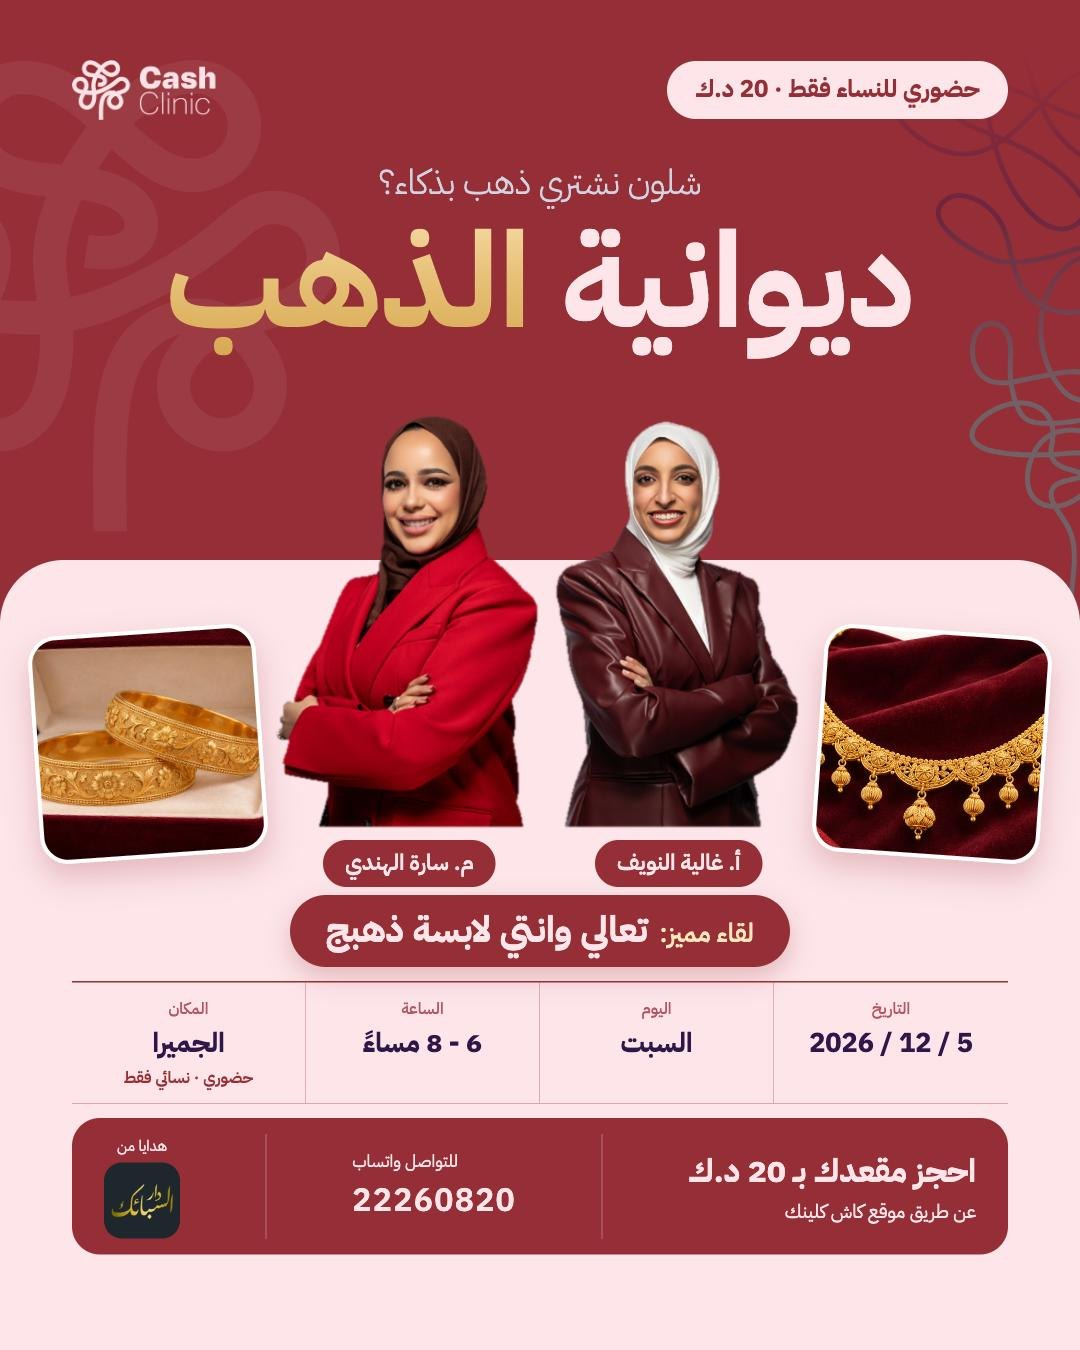
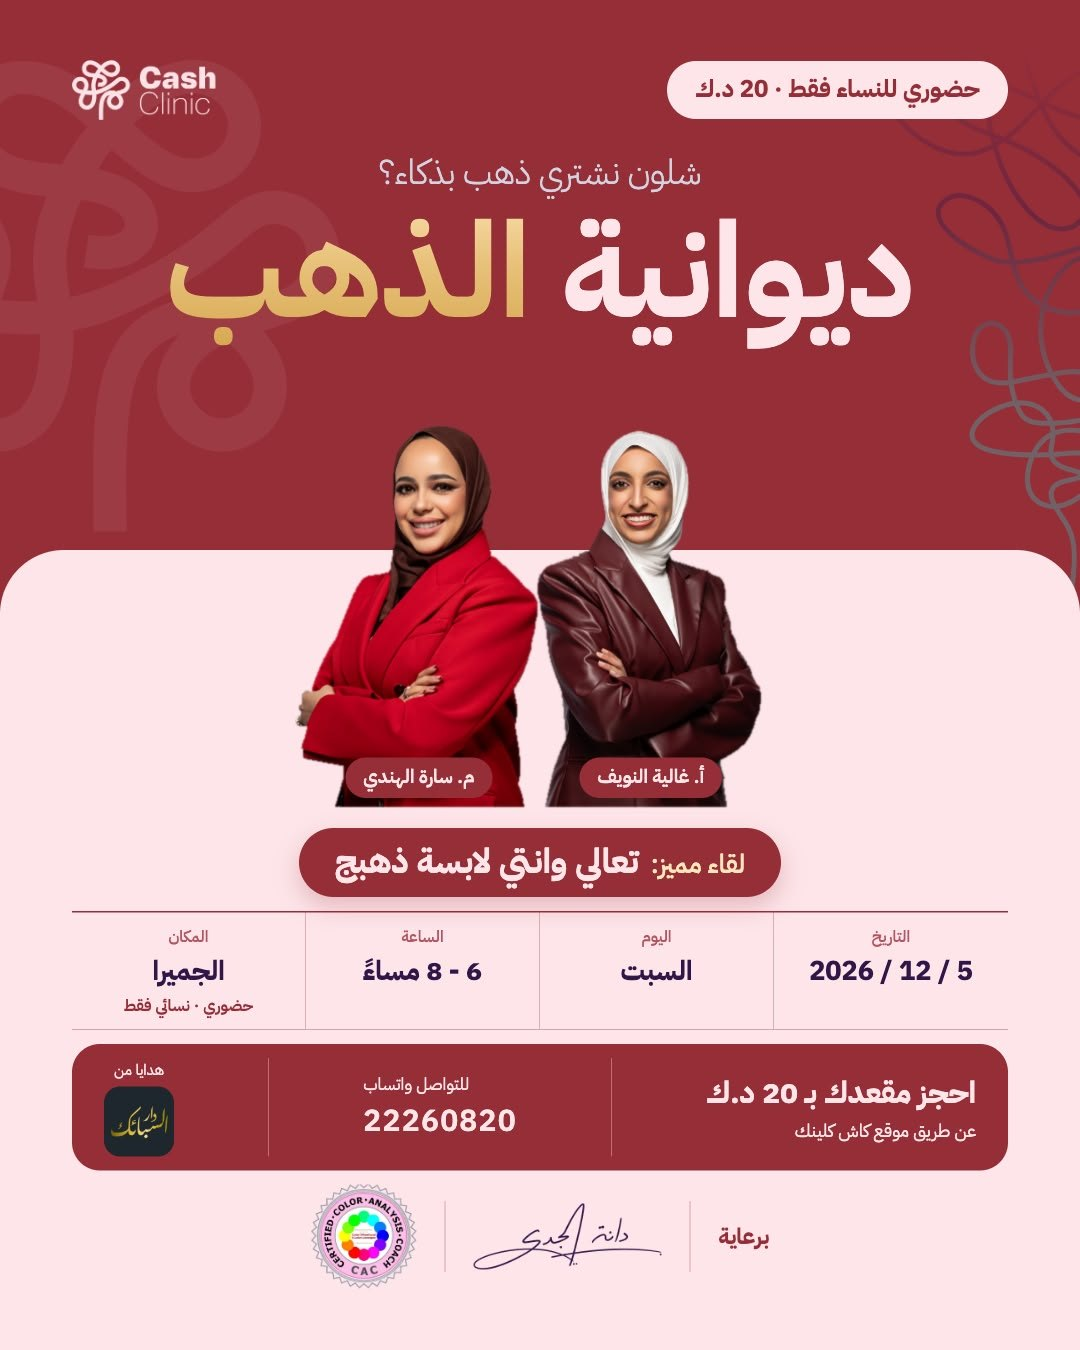
New Diwaniya Al-Thahab poster (?v=2); «💾 احفظ» button on متابعة كاش, خطة رمضان and تأسيس المشروع
Claude-Session: https://claude.ai/code/session_01Uhw4XYqMo3CeZoWD5ZcpCa

diff --git a/clinic/muassis.html b/clinic/muassis.html
@@ -1274,6 +1274,7 @@ secs.forEach((s,i)=>{const n=i===0?'':`<span class="n">${ar(String(i).padStart(2
 
 function persist(){if(window.ccSync)window.ccSync(JSON.stringify(S));
   const s=document.getElementById('saved');s.classList.add('on');clearTimeout(persist.t);persist.t=setTimeout(()=>s.classList.remove('on'),1200);refresh()}
+window.ccPersist=persist;   // the «احفظ» button saves through this
 function refresh(){
   const f=fields().filter(e=>e.type!=='number'&&e.dataset.k!=='cdate'&&!e.dataset.k.startsWith('cal_s')&&e.dataset.k!=='cal_year');const d=f.filter(e=>e.value.trim()).length;
   document.getElementById('progTxt').textContent=ar(d)+' من '+ar(f.length);
@@ -1403,6 +1404,32 @@ async function flush(){
   finally{ saving=false; if(pending && !timer) flush(); }
 }
 window.ccSync=(json)=>{ if(window.ccReadOnly) return; pending=json; clearTimeout(timer); timer=setTimeout(flush,1200); pill("فيه تعديل ما انحفظ…"); };
+
+/* «احفظ» (15 Nov 2026): every change already saves itself a moment later;
+   this saves right now and says so, so a client sees her work landed before
+   she closes the page. Shown only on her own open file, never read-only. */
+(()=>{
+  const b=document.createElement("button");
+  b.type="button"; b.id="ccSaveBtn"; b.hidden=true; b.textContent="💾 احفظ";
+  b.style.cssText="position:fixed;left:max(16px,env(safe-area-inset-left,0px));bottom:calc(72px + env(safe-area-inset-bottom,0px));z-index:70;border:0;border-radius:999px;padding:12px 20px;font:700 15px/1.2 'IBM Plex Sans Arabic',system-ui,sans-serif;background:#2F1748;color:#fff;box-shadow:0 6px 18px rgba(47,23,72,.28);cursor:pointer";
+  document.body.appendChild(b);
+  const gate=q("#ccGate");
+  const sync=()=>{ b.hidden=!gate.hidden || !!window.ccReadOnly; };
+  new MutationObserver(sync).observe(gate,{attributes:true,attributeFilter:["hidden"]}); sync();
+  const label=(t,keep)=>{ b.textContent=t; if(!keep) setTimeout(()=>{ b.textContent="💾 احفظ"; },2200); };
+  b.addEventListener("click", async ()=>{
+    if(window.ccReadOnly) return;
+    try{ window.ccPersist && window.ccPersist(); }catch(e){}
+    clearTimeout(timer); timer=null;
+    b.disabled=true; label("جاري الحفظ…",true);
+    while(saving) await new Promise((r)=>setTimeout(r,150));
+    if(pending) await flush();
+    b.disabled=false;
+    if(pending) label("ما انحفظ — اضغط مرة ثانية",true);
+    else label("انحفظ ✓ "+new Date().toLocaleTimeString("ar-KW-u-nu-latn",{hour:"numeric",minute:"2-digit"}));
+  });
+})();
+
 document.addEventListener("visibilitychange",()=>{ if(document.visibilityState==="hidden") flush(); });
 window.addEventListener("beforeunload",e=>{ if(pending||saving){ flush(); e.preventDefault(); e.returnValue=""; } });
 

diff --git a/clinic/app.html b/clinic/app.html
@@ -927,6 +927,7 @@ function persist(){
   snap();fillBaseline();
   if(window.ccSync) window.ccSync(JSON.stringify(S), true);
 }
+window.ccPersist=persist;   // the «احفظ» button saves through this
 const hasContent=s=>s.incomes.length||s.budget.length||s.goals.length||s.assets.length||s.profile.setup;
 /* started by the عيادتي module once it knows whose file this is */
 window.ccApp={ open(json, info){
@@ -2200,6 +2201,32 @@ async function flush(){
   finally{ saving=false; if(pending && !timer) flush(); }
 }
 window.ccSync=(json,quiet)=>{ if(window.ccReadOnly) return; pending=json; clearTimeout(timer); timer=setTimeout(()=>{ timer=null; flush(); }, quiet?1000:0); };
+
+/* «احفظ» (15 Nov 2026): every change already saves itself a moment later;
+   this saves right now and says so, so a client sees her work landed before
+   she closes the page. Shown only on her own open file, never read-only. */
+(()=>{
+  const b=document.createElement("button");
+  b.type="button"; b.id="ccSaveBtn"; b.hidden=true; b.textContent="💾 احفظ";
+  b.style.cssText="position:fixed;left:max(16px,env(safe-area-inset-left,0px));bottom:calc(18px + env(safe-area-inset-bottom,0px));z-index:70;border:0;border-radius:999px;padding:12px 20px;font:700 15px/1.2 'IBM Plex Sans Arabic',system-ui,sans-serif;background:#2F1748;color:#fff;box-shadow:0 6px 18px rgba(47,23,72,.28);cursor:pointer";
+  document.body.appendChild(b);
+  const gate=q("#ccGate");
+  const sync=()=>{ b.hidden=!gate.hidden || !!window.ccReadOnly; };
+  new MutationObserver(sync).observe(gate,{attributes:true,attributeFilter:["hidden"]}); sync();
+  const label=(t,keep)=>{ b.textContent=t; if(!keep) setTimeout(()=>{ b.textContent="💾 احفظ"; },2200); };
+  b.addEventListener("click", async ()=>{
+    if(window.ccReadOnly) return;
+    try{ window.ccPersist && window.ccPersist(); }catch(e){}
+    clearTimeout(timer); timer=null;
+    b.disabled=true; label("جاري الحفظ…",true);
+    while(saving) await new Promise((r)=>setTimeout(r,150));
+    if(pending) await flush();
+    b.disabled=false;
+    if(pending) label("ما انحفظ — اضغط مرة ثانية",true);
+    else label("انحفظ ✓ "+new Date().toLocaleTimeString("ar-KW-u-nu-latn",{hour:"numeric",minute:"2-digit"}));
+  });
+})();
+
 document.addEventListener("visibilitychange",()=>{ if(document.visibilityState==="hidden") flush(); });
 window.addEventListener("beforeunload",e=>{ if(pending||saving){ flush(); e.preventDefault(); e.returnValue=""; } });
 

diff --git a/clinic/ramadan.html b/clinic/ramadan.html
@@ -835,6 +835,32 @@ async function flush(){
   finally{ saving=false; if(pending && !timer) flush(); }
 }
 window.ccSync=(json)=>{ if(window.ccReadOnly) return; pending=json; clearTimeout(timer); timer=setTimeout(flush,1000); status("فيه تعديل ما انحفظ…"); };
+
+/* «احفظ» (15 Nov 2026): every change already saves itself a moment later;
+   this saves right now and says so, so a client sees her work landed before
+   she closes the page. Shown only on her own open file, never read-only. */
+(()=>{
+  const b=document.createElement("button");
+  b.type="button"; b.id="ccSaveBtn"; b.hidden=true; b.textContent="💾 احفظ";
+  b.style.cssText="position:fixed;left:max(16px,env(safe-area-inset-left,0px));bottom:calc(18px + env(safe-area-inset-bottom,0px));z-index:70;border:0;border-radius:999px;padding:12px 20px;font:700 15px/1.2 'IBM Plex Sans Arabic',system-ui,sans-serif;background:#2F1748;color:#fff;box-shadow:0 6px 18px rgba(47,23,72,.28);cursor:pointer";
+  document.body.appendChild(b);
+  const gate=q("#ccGate");
+  const sync=()=>{ b.hidden=!gate.hidden || !!window.ccReadOnly; };
+  new MutationObserver(sync).observe(gate,{attributes:true,attributeFilter:["hidden"]}); sync();
+  const label=(t,keep)=>{ b.textContent=t; if(!keep) setTimeout(()=>{ b.textContent="💾 احفظ"; },2200); };
+  b.addEventListener("click", async ()=>{
+    if(window.ccReadOnly) return;
+    try{ window.save && window.save(); }catch(e){}
+    clearTimeout(timer); timer=null;
+    b.disabled=true; label("جاري الحفظ…",true);
+    while(saving) await new Promise((r)=>setTimeout(r,150));
+    if(pending) await flush();
+    b.disabled=false;
+    if(pending) label("ما انحفظ — اضغط مرة ثانية",true);
+    else label("انحفظ ✓ "+new Date().toLocaleTimeString("ar-KW-u-nu-latn",{hour:"numeric",minute:"2-digit"}));
+  });
+})();
+
 document.addEventListener("visibilitychange",()=>{ if(document.visibilityState==="hidden") flush(); });
 window.addEventListener("beforeunload",e=>{ if(pending||saving){ flush(); e.preventDefault(); e.returnValue=""; } });
 

diff --git a/courses/index.html b/courses/index.html
@@ -94,7 +94,7 @@
     <!-- 5 Dec: «ديوانية الذهب» — paid, in person, women only, 30 seats -->
     <a class="crs-card" href="diwaniya-gold.html" data-until="2026-12-05T20:00:00+03:00" data-done="انتهت الديوانية">
       <div class="crs-card-media">
-        <img src="img/diwaniya-gold-promo.jpg" alt="ديوانية الذهب — شلون نشتري ذهب بذكاء؟">
+        <img src="img/diwaniya-gold-promo.jpg?v=2" alt="ديوانية الذهب — شلون نشتري ذهب بذكاء؟">
         <span class="crs-brandchip"><img src="../brand/nas-logo.png" alt="">كاش ناس</span>
       </div>
       <div class="crs-card-body">

diff --git a/index.html b/index.html
@@ -523,7 +523,7 @@
     /* then «ديوانية الذهب» from 6 pm on 14 Nov, when the ramadan one starts,
        until its checkout closes on 5 Dec (it replaced the 28 Nov لقاء here) */
     { until:"2026-12-05T18:00:00+03:00", href:"courses/diwaniya-gold.html",
-      img:"courses/img/diwaniya-gold-promo.jpg", w:1080, h:1350,
+      img:"courses/img/diwaniya-gold-promo.jpg?v=2", w:1080, h:1350,
       alt:"ديوانية الذهب — شلون نشتري ذهب بذكاء؟ السبت 5/12/2026، 6–8 مساءً، الجميرا، حضوري للنساء فقط، 20 د.ك", cta:"احجز مقعدك بـ 20 د.ك ←" }
   ];
   var now=Date.now(), ad=null;

diff --git a/courses/diwaniya-gold.html b/courses/diwaniya-gold.html
@@ -171,7 +171,7 @@
         </div>
       </div>
       <div class="crs-hero-img">
-        <img src="img/diwaniya-gold-promo.jpg" alt="ديوانية الذهب — شلون نشتري ذهب بذكاء؟ السبت 5/12/2026، 6–8 مساءً، الجميرا، حضوري للنساء فقط، 20 د.ك" loading="lazy" onclick="openLb(this.src)">
+        <img src="img/diwaniya-gold-promo.jpg?v=2" alt="ديوانية الذهب — شلون نشتري ذهب بذكاء؟ السبت 5/12/2026، 6–8 مساءً، الجميرا، حضوري للنساء فقط، 20 د.ك" loading="lazy" onclick="openLb(this.src)">
       </div>
     </div>
   </div>
